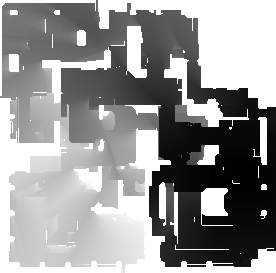
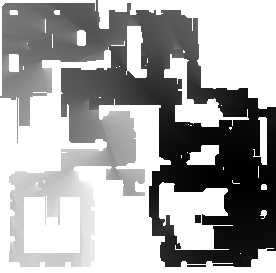
feat(replay): zonas sin daño de la C4 + vertigo a dos niveles

diff --git a/frontend/src/features/demos/Replay2D.tsx b/frontend/src/features/demos/Replay2D.tsx
@@ -24,6 +24,11 @@ const playerColor = (p: { ci?: number; side: string }): string =>
     : SIDE_COLOR[p.side] ?? '#fff'
 const SPEEDS = [0.5, 1, 2, 4]
 const C4_TIME = 40
+// Cover the blast can't get through
+const BOMB_SAFE = [46, 196, 222, 140]
+const BOMB_SAFE_CSS = `rgba(${BOMB_SAFE[0]},${BOMB_SAFE[1]},${BOMB_SAFE[2]},${BOMB_SAFE[3] / 255})`
+// Cells of cover within this many of the blast fade toward the heat instead of butting against it
+const BOMB_FADE_CELLS = 3
 
 const fmtClock = (sec: number): string => {
   const s = Math.max(0, Math.ceil(sec))
@@ -222,26 +227,72 @@ function useBombField(
       const inInset = (px: number, py: number): boolean =>
         !!inset && px >= inset[0] && px <= inset[2] && py >= inset[1] && py <= inset[3]
 
+      const heat = (g: number): number[] => {
+        const intensity = lut ? (lut[g] ?? 0) / 255 : 1 - g / 255
+        return [255, Math.round(210 * (1 - intensity)), 40, 255 * (0.26 + 0.5 * intensity)]
+      }
+
       const colorize = (raw: RawField, c: { pos_x: number; pos_y: number; scale: number } | null, wantInset: boolean): BombPart => {
         const out = raw.cx.createImageData(w, h)
         const o = out.data
-        for (let i = 0; i < w * h; i++) {
-          const g = raw.gray[i]
-          let visible = raw.alpha[i] > 0
-          if (visible && c && radarAlpha) {
+        const n = w * h
+
+        const visible = new Uint8Array(n)
+        for (let i = 0; i < n; i++) {
+          let v = raw.alpha[i] > 0
+          if (c && radarAlpha) {
             const [px, py] = cellPx(i, c)
-            visible = px >= 0 && px < RADAR && py >= 0 && py < RADAR && radarAlpha[py * RADAR + px] > 8
-            if (visible && inset) visible = inInset(px, py) === wantInset
+            v = px >= 0 && px < RADAR && py >= 0 && py < RADAR && radarAlpha[py * RADAR + px] > 8
+            if (v && inset) v = inInset(px, py) === wantInset
           }
-          if (!visible) {
+          visible[i] = v ? 1 : 0
+        }
+
+        // Walls, props and the silo take no damage at all
+        const dist = new Int16Array(n).fill(-1)
+        const src = new Uint8Array(n)
+        const queue = new Int32Array(n)
+        let tail = 0
+        for (let i = 0; i < n; i++) {
+          if (visible[i] && raw.alpha[i] > 0) {
+            dist[i] = 0
+            queue[tail++] = i
+          }
+        }
+        for (let head = 0; head < tail; head++) {
+          const i = queue[head]
+          const d = dist[i]
+          if (d >= BOMB_FADE_CELLS) continue
+          const x = i % w
+          const push = (j: number) => {
+            if (dist[j] >= 0 || !visible[j] || raw.alpha[j] > 0) return
+            dist[j] = d + 1
+            src[j] = d === 0 ? raw.gray[i] : src[i]
+            queue[tail++] = j
+          }
+          if (x > 0) push(i - 1)
+          if (x < w - 1) push(i + 1)
+          if (i >= w) push(i - w)
+          if (i < n - w) push(i + w)
+        }
+
+        for (let i = 0; i < n; i++) {
+          if (!visible[i]) {
             o[i * 4 + 3] = 0
             continue
           }
-          const intensity = lut ? (lut[g] ?? 0) / 255 : 1 - g / 255
-          o[i * 4] = 255
-          o[i * 4 + 1] = Math.round(210 * (1 - intensity))
-          o[i * 4 + 2] = 40
-          o[i * 4 + 3] = Math.round(255 * (0.26 + 0.5 * intensity))
+          if (raw.alpha[i] > 0) {
+            const rgba = heat(raw.gray[i])
+            for (let k = 0; k < 4; k++) o[i * 4 + k] = Math.round(rgba[k])
+            continue
+          }
+          const d = dist[i]
+          // Half-way to the heat at the very edge of the cover, pure cover past the band
+          const mix = d > 0 ? 0.5 * Math.max(0, 1 - (d - 1) / BOMB_FADE_CELLS) : 0
+          const near = d > 0 ? heat(src[i]) : BOMB_SAFE
+          for (let k = 0; k < 4; k++) {
+            o[i * 4 + k] = Math.round(BOMB_SAFE[k] + (near[k] - BOMB_SAFE[k]) * mix)
+          }
         }
         raw.cx.putImageData(out, 0, 0)
         return { gray: raw.gray, alpha: raw.alpha, url: raw.cx.canvas.toDataURL('image/png') }
@@ -1002,12 +1053,13 @@ function ReplayStage({
                 style={{
                   height: 8,
                   borderRadius: 3,
-                  background: 'linear-gradient(90deg, #ff3b3b, #ffd23b)',
+                  background: `linear-gradient(90deg, #ff3b3b 0%, #ffd23b 62%, ${BOMB_SAFE_CSS} 100%)`,
                 }}
               />
-              <div style={{ display: 'flex', justifyContent: 'space-between', gap: 16, fontSize: 10 }} className="muted">
+              <div style={{ display: 'flex', justifyContent: 'space-between', gap: 8, fontSize: 10 }} className="muted">
                 <span>{t('replay.bombLethal', 'Letal')}</span>
                 <span>{t('replay.bombLight', 'Leve')}</span>
+                <span>{t('replay.bombSafe', 'Sin daño')}</span>
               </div>
             </div>
           )}

diff --git a/backend/scripts/regen_vox_bomb.py b/backend/scripts/regen_vox_bomb.py
@@ -1,0 +1,164 @@
+"""Rebuild the C4 damage overlays of the two-level maps from skinsniper's 3D voxels.
+
+Their published 2D field flattens every height into one image, so on a two-level map
+the heat lands on the wrong floor. Here each level is flattened on its own.
+
+Run: backend/.venv/bin/python scripts/regen_vox_bomb.py <de_nuke|de_vertigo> [vox.bin]
+"""
+from __future__ import annotations
+
+import gzip
+import sys
+import urllib.request
+from collections import deque
+from pathlib import Path
+
+import numpy as np
+from PIL import Image
+
+ROOT = Path(__file__).resolve().parent.parent
+BOMB_DIR = ROOT / "app" / "assets" / "bomb"
+RADAR_DIR = ROOT / "app" / "assets" / "radars"
+
+# z_split: below it is the lower level. upper_cap: without it nuke also paints the
+# rafters, roofs and silo top the radar never draws. sites: vox order -> our labels,
+# reversed on vertigo because skinsniper has its A/B the wrong way round.
+MAPS: dict[str, dict] = {
+    "de_nuke": {
+        "sid": "nuke",
+        "w": 650, "h": 342, "n": 100764, "zmin": -765,
+        "origin": (-2985.0, -2475.0),
+        "upper_cal": (-2568.0, 971.4, 5.3854),
+        "lower_cal": (-490.9, 2909.2, 5.2859),
+        "z_split": -495.0,
+        "upper_cap": -250.0,
+        "fill_holes": True,
+        "sites": ("a", "b"),
+    },
+    "de_vertigo": {
+        "sid": "vertigo",
+        "w": 276, "h": 273, "n": 63157, "zmin": 11495,
+        "origin": (-2625.0, -1610.0),
+        "upper_cal": (-3900.9, 1257.9, 5.0),
+        "lower_cal": (-3841.6, 3344.7, 4.8),
+        "z_split": 11700.0,
+        "upper_cap": None,
+        "fill_holes": False,
+        "sites": ("b", "a"),
+    },
+}
+
+UA = ("Mozilla/5.0 (X11; Linux x86_64) AppleWebKit/537.36 (KHTML, like Gecko) "
+      "Chrome/126.0 Safari/537.36")
+
+
+def load_vox(sid: str, local: str | None) -> bytes:
+    if local:
+        data = Path(local).read_bytes()
+    else:
+        url = f"https://skinsniper.com/img/bomb/{sid}-vox.bin"
+        req = urllib.request.Request(url, headers={"User-Agent": UA})
+        data = urllib.request.urlopen(req).read()
+    return gzip.decompress(data) if data[:2] == b"\x1f\x8b" else data
+
+
+def flood(mask: np.ndarray, seeds: deque, w: int, h: int) -> np.ndarray:
+    seen = np.zeros_like(mask)
+    for s in seeds:
+        seen[s] = True
+    while seeds:
+        y, x = seeds.popleft()
+        for dy, dx in ((1, 0), (-1, 0), (0, 1), (0, -1)):
+            yy, xx = y + dy, x + dx
+            if 0 <= yy < h and 0 <= xx < w and mask[yy, xx] and not seen[yy, xx]:
+                seen[yy, xx] = True
+                seeds.append((yy, xx))
+    return seen
+
+
+def flatten(cfg: dict, arr: np.ndarray, cell_t: np.ndarray, sel: np.ndarray,
+            rlum: np.ndarray, cal: tuple[float, float, float]) -> np.ndarray:
+    w, h = cfg["w"], cfg["h"]
+    ox, oy = cfg["origin"]
+    gray = np.full(w * h, 256, int)
+    np.minimum.at(gray, cell_t[sel], arr[sel])
+    gray = gray.reshape(h, w)
+    occ = gray < 256
+
+    # Enclosed holes get the min neighbouring gray when they are prop-sized, or medium
+    # but drawn light on the radar (nuke's A-plant crates). Big dark voids — the roof
+    # gaps the radar draws dark — are real, and stay unheated.
+    if cfg["fill_holes"]:
+        border = deque((y, x) for x in range(w) for y in (0, h - 1) if not occ[y, x])
+        border.extend((y, x) for y in range(h) for x in (0, w - 1) if not occ[y, x])
+        holes = ~occ & ~flood(~occ, border, w, h)
+
+        lbl = np.zeros((h, w), int)
+        cur = 0
+        for y, x in zip(*np.nonzero(holes), strict=True):
+            if lbl[y, x]:
+                continue
+            cur += 1
+            comp = flood(holes & (lbl == 0), deque([(y, x)]), w, h)
+            lbl[comp] = cur
+            ys, xs = np.nonzero(comp)
+            px = np.clip(np.round((ox + xs * 10 - cal[0]) / cal[2]).astype(int), 0, 1023)
+            py = np.clip(np.round((cal[1] - (oy + ys * 10)) / cal[2]).astype(int), 0, 1023)
+            if not (len(ys) <= 120 or (len(ys) <= 600 and rlum[py, px].mean() > 90)):
+                continue
+            todo = comp.copy()
+            while todo.any():
+                done = np.zeros((h, w), bool)
+                for hy, hx in zip(*np.nonzero(todo), strict=True):
+                    best = 256
+                    for dy, dx in ((1, 0), (-1, 0), (0, 1), (0, -1)):
+                        yy, xx = hy + dy, hx + dx
+                        if 0 <= yy < h and 0 <= xx < w and occ[yy, xx] and not todo[yy, xx]:
+                            best = min(best, gray[yy, xx])
+                    if best < 256:
+                        gray[hy, hx] = best
+                        done[hy, hx] = True
+                if not done.any():
+                    break
+                occ |= done
+                todo &= ~done
+
+    out = np.zeros((h, w, 2), np.uint8)
+    out[..., 0] = np.where(occ, gray, 0)
+    out[..., 1] = np.where(occ, 255, 0)
+    return out[::-1]  # vox rows grow north; PNG row 0 is the top
+
+
+def main() -> None:
+    if len(sys.argv) < 2 or sys.argv[1] not in MAPS:
+        sys.exit(f"usage: regen_vox_bomb.py <{'|'.join(MAPS)}> [vox.bin]")
+    map_id = sys.argv[1]
+    cfg = MAPS[map_id]
+    w, h, n = cfg["w"], cfg["h"], cfg["n"]
+
+    raw = load_vox(cfg["sid"], sys.argv[2] if len(sys.argv) > 2 else None)
+    assert len(raw) == w * h + n * 3, f"vox size mismatch: {len(raw)}"
+    b = np.frombuffer(raw, np.uint8)
+    count = b[: w * h].astype(int)
+    z = cfg["zmin"] + b[w * h : w * h + n].astype(int) * 10
+    cell_t = np.repeat(np.arange(w * h), count)
+    rlum = (np.asarray(Image.open(RADAR_DIR / f"{map_id}.png").convert("RGBA")
+                       .resize((1024, 1024)))[..., :3].astype(float)
+            * [0.299, 0.587, 0.114]).sum(-1)
+
+    split = cfg["z_split"]
+    cap = cfg["upper_cap"]
+    in_upper = z >= split if cap is None else (z >= split) & (z <= cap)
+
+    for i, site in enumerate(cfg["sites"]):
+        arr = b[w * h + n * (1 + i) : w * h + n * (2 + i)].astype(int)
+        upper = flatten(cfg, arr, cell_t, in_upper, rlum, cfg["upper_cal"])
+        lower = flatten(cfg, arr, cell_t, z < split, rlum, cfg["lower_cal"])
+        Image.fromarray(upper, "LA").save(BOMB_DIR / f"{map_id}_{site}.png")
+        Image.fromarray(lower, "LA").save(BOMB_DIR / f"{map_id}_{site}_lower.png")
+        print(f"{map_id}_{site}: upper cells {int((upper[..., 1] > 0).sum())}, "
+              f"lower cells {int((lower[..., 1] > 0).sum())}")
+
+
+if __name__ == "__main__":
+    main()

diff --git a/backend/app/analytics/maps.py b/backend/app/analytics/maps.py
@@ -221,6 +221,7 @@ _BOMB_DAMAGE: dict[str, dict] = {
                            {"label": "B", "center": [-40.0, -1292.0, -308.0],
                             "scalar": 1730, "quant": 43.482, "arrival_max": 11088}]},
     "de_vertigo": {"w": 276, "h": 273, "scale": 10, "origin": [-2625.0, -1610.0],
+                   "has_lower": True,
                    "sites": [{"label": "A", "center": [-2248.0, 798.0, 11758.0],
                               "scalar": 2590, "quant": 39.949, "arrival_max": 10187},
                              {"label": "B", "center": [-278.0, -621.0, 11792.0],